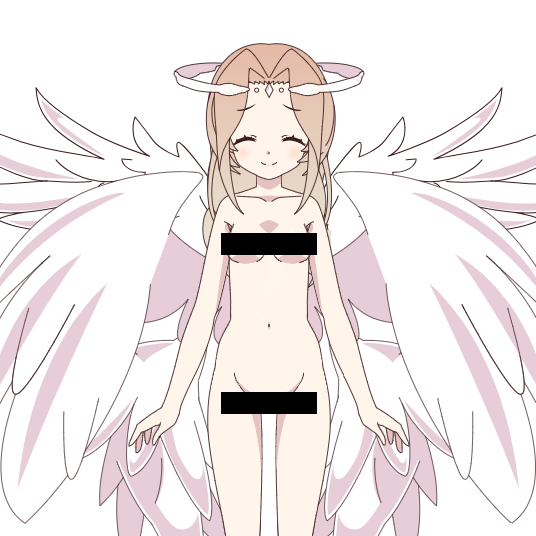
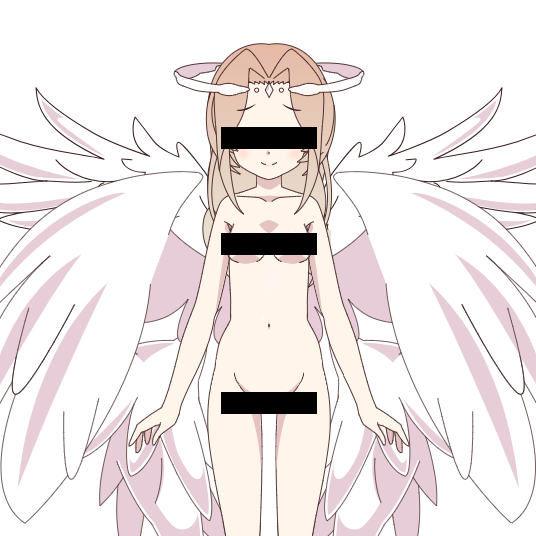
profile update

Changed region(s): [[0.3881, 0.2388, 0.597, 0.2985]]

diff --git a/css/styles.css b/css/styles.css
@@ -1,31 +1,34 @@
-
-body{
+body {
     font-family: verdana, sans-serif, helvetica;
-    
+
 }
+
 .navtop {
     overflow: hidden;
     background-color: rgb(141, 22, 189);
     align-self: center;
     font-family: verdana, sans-serif, helvetica;
 }
-.icon{
+
+.icon {
     position: relative;
-    float:left; 
+    float: left;
     margin: 7px 15px 1px 25px;
     padding: 0 0 0 0;
 }
-.section{
+
+.section {
     text-decoration: none;
-    float: left; 
-    display: block; 
-    color: #ffffff; 
-    text-align: center; 
+    float: left;
+    display: block;
+    color: #ffffff;
+    text-align: center;
     margin: 20px 16px 23px 16px;
     padding: 0 0 0 0;
 }
-.section:hover{
-    text-decoration:underline;
+
+.section:hover {
+    text-decoration: underline;
 }
 
 .navsub {
@@ -90,7 +93,8 @@ tbody {
     font-size: 12px;
     text-decoration: none;
 }
-.footer{
+
+.footer {
     margin-top: auto;
     text-align: center;
     color: #fff;
@@ -98,7 +102,7 @@ tbody {
     font-family: verdana, sans-serif, helvetica;
     margin: 0;
     padding: 1rem;
-    
+
 }
 
 /* 
@@ -117,98 +121,149 @@ tbody {
         font-family: verdana, sans-serif, helvetica;
     }
 } */
-.option-form{
+.option-form {
     width: 8rem;
     display: inline-block;
 }
-.lbl{
-    display: block; 
-    text-align: center; 
-    filter:opacity(0);
+
+.lbl {
+    display: block;
+    text-align: center;
+    filter: opacity(0);
 }
-.void{
-    width: 0px; 
-    height:8rem; 
-    object-fit: cover; 
-    filter:opacity(0);
+
+.void {
+    width: 0px;
+    height: 8rem;
+    object-fit: cover;
+    filter: opacity(0);
 }
-.Height{
-    display: inline-block; 
-    width:0px;
+
+.Height {
+    display: inline-block;
+    width: 0px;
 }
-.option-photo{
+
+.option-photo {
     margin: 0, 0, 0, 0;
     width: 8rem;
-    height:8rem; 
+    height: 8rem;
     object-fit: cover;
     /* background-color: white; */
-    transition:  filter 0.2s, margin-bottom 0.2s ease-in-out;
+    transition: filter 0.2s, margin-bottom 0.2s ease-in-out;
 }
+
 .option-form:hover .option-photo {
-    border:0px solid #333;
+    border: 0px solid #333;
     filter: brightness(40%);
     /* background-color: rgba(33, 33, 33, 0); */
     /* background-color: white; */
     margin-bottom: 10px;
-  }
-  .profile-nav{
+}
+
+
+
+.option-form-secret {
+    width: 20rem;
+    display: inline-block;
+}
+
+.option-photo-secret {
+    margin: 0, 0, 0, 0;
+    width: 20rem;
+    height: 20rem;
+    object-fit: cover;
+    /* background-color: white; */
+    transition: filter 0.2s, margin-bottom 0.2s ease-in-out;
+}
+
+/* .option-form-secret:hover .option-photo-secret {
+    border: 0px solid #333;
+    filter: brightness(40%);
+    margin-bottom: 10px;
+} */
+.option-photo-secret:hover {
+    border: 0px solid #333;
+    filter: brightness(40%);
+    /* background-color: rgba(33, 33, 33, 0); */
+    /* background-color: white; */
+    margin-bottom: 10px;
+}
+.void-secret {
+    width: 0px;
+    height: 20rem;
+    object-fit: cover;
+    filter: opacity(0);
+}
+
+
+
+
+.profile-nav {
     height: 60px;
     width: 60px;
     border-radius: 100rem;
-    background-color: white; 
+    background-color: white;
     object-fit: cover;
     transition: 0.3s filter ease-in-out;
-  }
-  .profile-nav:hover {
-    border:0px solid #333;
+}
+
+.profile-nav:hover {
+    border: 0px solid #333;
     /*background-color: rgba(33, 33, 33, 0);*/
     background-color: white;
     filter: brightness(40%);
-  }
-  .profile-small{
+}
+
+.profile-small {
     height: 50px;
     width: 50px;
     border-radius: 100rem;
-    background-color: white; 
+    background-color: white;
     object-fit: cover;
     transition: 0.3s filter ease-in-out;
-  }
-  .profile-small:hover {
-    border:0px solid #333;
+}
+
+.profile-small:hover {
+    border: 0px solid #333;
     /*background-color: rgba(33, 33, 33, 0);*/
     background-color: white;
     filter: brightness(40%);
-  }
-  .profile{
+}
+
+.profile {
     height: 20rem;
     width: 20rem;
     border-radius: 50%;
     object-fit: cover;
     background-color: white;
     transition: 0.3s filter ease-in-out;
-  }
-  .profile:hover {
-    border:0px solid #333;
+}
+
+.profile:hover {
+    border: 0px solid #333;
     /*background-color: rgba(33, 33, 33, 0);*/
     background-color: white;
     filter: brightness(40%);
-  }
+}
 
-  .box {
+.box {
     height: 10rem;
     width: 20rem;
     border-radius: 0 0 10rem 10rem;
     background-color: #333;
-  }
-  .note-img {
+}
+
+.note-img {
     border-radius: 100%;
     background-color: white;
     object-fit: cover;
-  }
-
-a:link{
-    color:lightcoral;
 }
-a:visited{
-    color:lightcoral;
+
+a:link {
+    color: lightcoral;
+}
+
+a:visited {
+    color: lightcoral;
 }

diff --git a/views/profile.php b/views/profile.php
@@ -18,19 +18,19 @@
                     <h3>Default</h3>
                 </a>
                         <?php } ?>
-                <div id="secret" class="modal" style="width:13rem; height:13rem; align-items: center;">
+                <div id="secret" class="modal" style="width:25rem; height:25rem; text-align: center; background-color: hotpink;">
                     <div class="Height">
-                        <form method="post" style="width:9rem;display: inline-block; user-select:none">
+                        <form method="post">
                             <br>
-                            <input type="image" src="img/users/default1.png" class="void" disabled>
+                            <input type="image" src="img/users/default1.png" class="void-secret" disabled>
                             <label class="lbl">Useless</label>
                         </form>
                     </div>
                     <div style="display: inline-block;">
-                        <form method="post" class="option-form">
+                        <form method="post" class="option-form-secret">
                             <input type="hidden" name="default-secret" value="default-secret.png" class="Height">
-                            <input title="Set H-Chan as profile photo" type="image" id="default-secret" class="option-photo" name="default-secret" value="default-secret.png" alt="Login" src="img/users/default-secret.png">
-                            <label style="display: block; text-align: center;">H-Chan</label>
+                            <input title="Set H-Chan as profile photo" type="image" id="default-secret" class="option-photo-secret" name="default-secret" value="default-secret.png" alt="Login" src="img/users/default-secret_full2.png">
+                            <label >H-Chan</label>
                         </form>
                     </div>
                 </div>

diff --git a/views/home.php b/views/home.php
@@ -10,8 +10,10 @@ require_once "includes/config.php";
     <div
             style="position: absolute; top: 50%; left: 50%; transform: translate(-50%, -50%);  width: 100%;">
     <h1 style="font-size: 50px;<?php if (isset($_COOKIE['dark_mode']) && $_COOKIE['dark_mode'] == 'true') {
-        echo "color: white;";
-    } ?>">
+        echo "color: white; text-shadow: 2px 0 #000, -2px 0 #000, 0 2px #000, 0 -2px #000,
+        1px 1px #000, -1px -1px #000, 1px -1px #000, -1px 1px #000;";
+    }// else{ echo "text-shadow: 2px 0 #fff, -2px 0 #fff, 0 2px #fff, 0 -2px #fff,
+    //     1px 1px #fff, -1px -1px #fff, 1px -1px #fff, -1px 1px #fff;";} ?>">
         <b><u>V-Chan</u></b>
     </h1>
     <br>
